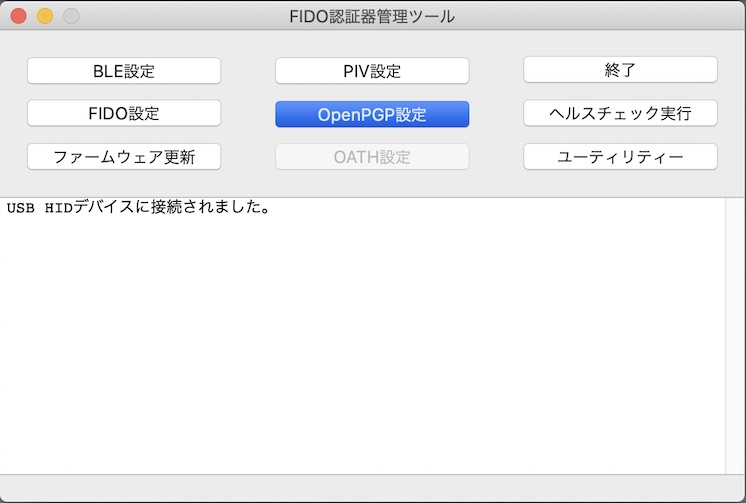
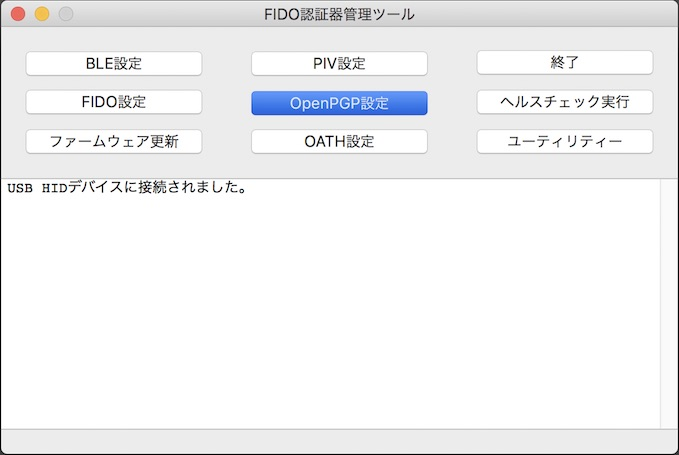
ドキュメントを更新
・画面コピーを差し替え
・文言修正を反映

diff --git a/MaintenanceTool/macOSApp/PGPSETTING_OPT.md b/MaintenanceTool/macOSApp/PGPSETTING_OPT.md
@@ -1,10 +1,10 @@
 # OpenPGP機能の各種設定手順
 
-最終更新日：2022/2/24
+最終更新日：2022/11/15
 
 ## 概要
 
-[FIDO認証器管理ツール](../../MaintenanceTool/macOSApp/MNTTOOL.md)を使用して、[BT40 Dongle](../../FIDO2Device/BT40Dongle/README.md)に対し、OpenPGP機能の各種設定を行う手順を掲載します。
+[FIDO認証器管理ツール](../../MaintenanceTool/macOSApp/MNTTOOL.md)を使用して、[MDBT50Q Dongle](../../FIDO2Device/MDBT50Q_Dongle/README.md)に対し、OpenPGP機能の各種設定を行う手順を掲載します。
 
 - PIN番号管理
   - PIN番号を変更
@@ -13,23 +13,20 @@
   - リセットコードを変更
   - リセットコードでPIN番号をリセット
 
-## OpenPGP機能設定画面の表示
+## OpenPGP設定画面の表示
 
-OpenPGP機能の設定は「OpenPGP機能設定画面」上で行います。
+PGP秘密鍵のインストールは「OpenPGP設定画面」上から行います。
 
-まずは管理ツールを起動し、USBポートにBT40 Dongleを装着します。<br>
+管理ツールを起動し、USBポートにMDBT50Q Dongleを装着します。<br>
+管理ツール画面下部のメッセージ欄に「USB HIDデバイスに接続されました。」と表示されることを確認したら、管理ツール画面の「OpenPGP設定」ボタンをクリックします。
 
-<img src="assets/0013.jpg" width="360">
+<img src="assets07/0003.jpg" width="400">
 
-管理ツール画面下部のメッセージ欄に「USB HIDデバイスに接続されました。」と表示されることを確認したら、管理ツール画面の「OpenPGP機能設定」ボタンをクリックします。
+ホーム画面の上に、OpenPGP設定画面がポップアップ表示されます。
 
-<img src="assets07/0003.jpg" width="360">
+<img src="assets07/0004.jpg" width="400">
 
-ホーム画面の上に、OpenPGP機能設定画面がポップアップ表示されます。
-
-<img src="assets07/0004.jpg" width="360">
-
-以後の設定作業は、すべてこの「OpenPGP機能設定画面」で実行します。
+以後の設定作業は、すべてこの「OpenPGP設定画面」で実行します。
 
 ## PIN番号管理
 
